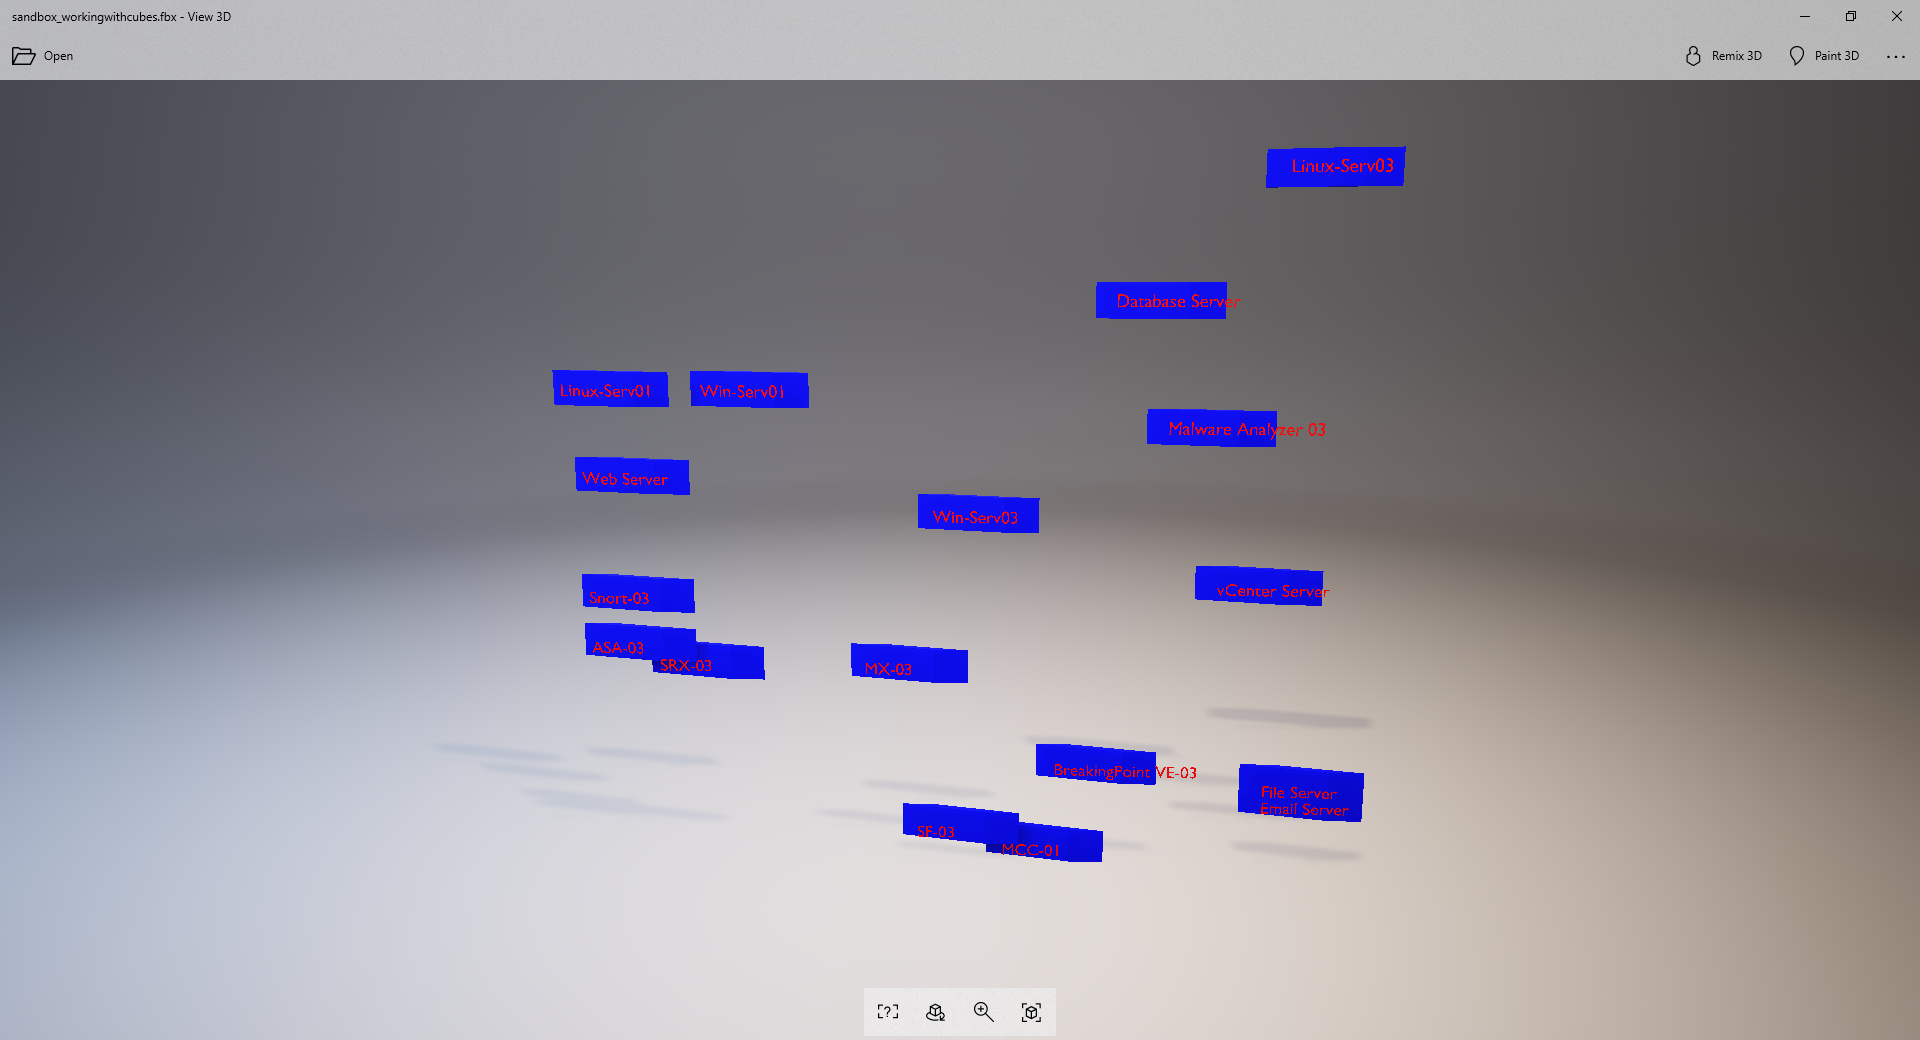
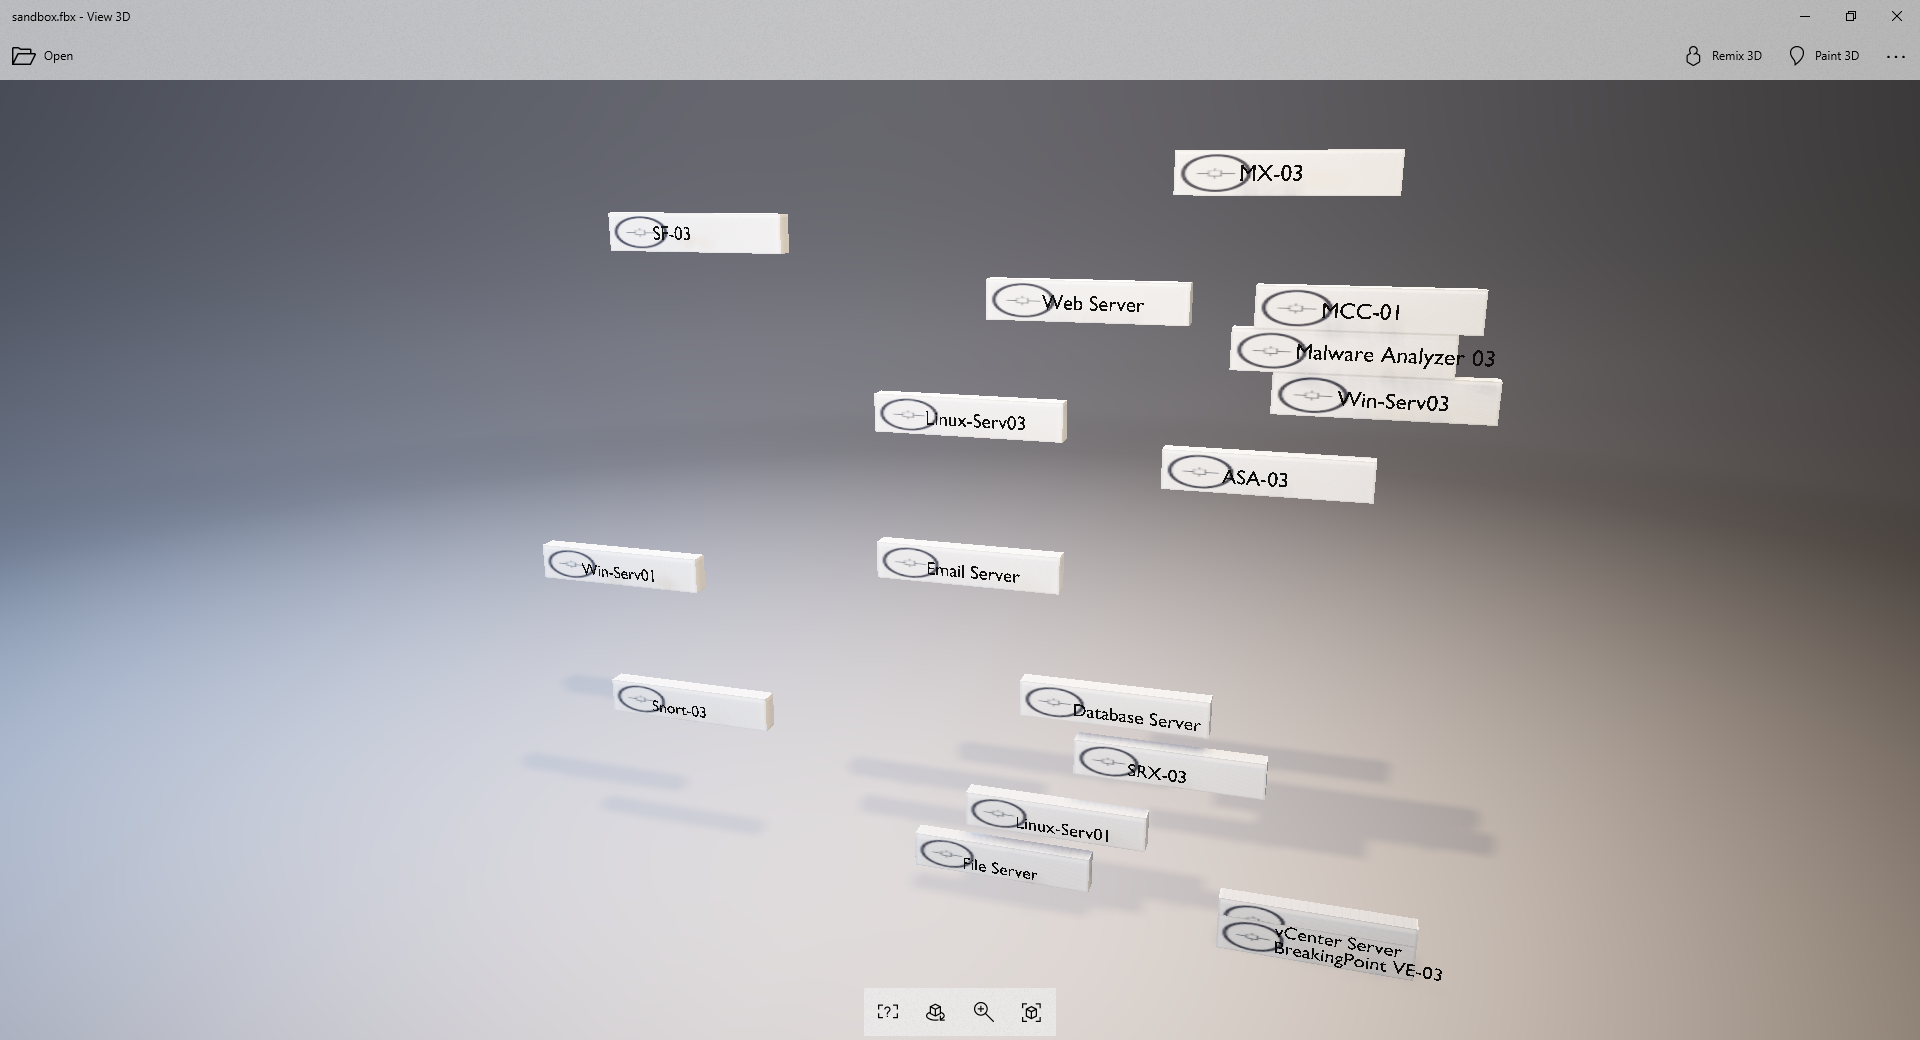
added textures

diff --git a/sandbox3d.py b/sandbox3d.py
@@ -5,6 +5,21 @@ from requests.packages.urllib3.exceptions import InsecureRequestWarning
 import json
 from math import pi
 from random import randint
+import os
+
+####
+# Parameters
+####
+# Credentials for CloudShell
+QSHost = "https://server.com:82"
+QSUn = "username"
+QSPw = "password"
+QSDom = "Global"
+SBID = "901b392d-3587-4e9d-bfaa-437b835145ac"
+# Where files are and to be stored
+WorkDir = "C:/temp"
+ExportFile = WorkDir + "/sandbox.fbx"
+ResourceTexturePath = WorkDir + "/resourcerect.png"
 
 #### 
 # CloudShell Stuff
@@ -22,13 +37,6 @@ def authRest(host, un, pw, dom):
         print ("Your authentication credentials to the server were bad")
         exit(1)
     return token
-
-# Credentials for CloudShell
-QSHost = "https://server.com:82"
-QSUn = "username"
-QSPw = "password"
-QSDom = "Global"
-SBID = "901b392d-3587-4e9d-bfaa-437b835145ac"
 
 # Authenticate and log get devices in sandbox
 token = authRest(QSHost, QSUn, QSPw, QSDom)
@@ -55,6 +63,48 @@ def makeMaterial(name, diffuse, specular, alpha):
     mat.alpha = alpha
     mat.ambient = 1
     return mat
+
+def wrapTexture():
+    # from https://wiki.blender.org/index.php/Dev:Py/Scripts/Cookbook/Code_snippets/Materials_and_textures#Textures
+    # Load image file. Change here if the snippet folder is 
+    # not located in you home directory.
+    realpath = os.path.expanduser(ResourceTexturePath)
+    try:
+        img = bpy.data.images.load(realpath)
+    except:
+        raise NameError("Cannot load image %s" % realpath)
+ 
+    # Create image texture from image
+    cTex = bpy.data.textures.new('ColorTex', type = 'IMAGE')
+    cTex.image = img
+ 
+ 
+    # Create material
+    mat = bpy.data.materials.new('TexMat')
+ 
+    # Add texture slot for color texture
+    mtex = mat.texture_slots.add()
+    mtex.texture = cTex
+    mtex.texture_coords = 'UV'
+    mtex.use_map_color_diffuse = True 
+    mtex.use_map_color_emission = True 
+    mtex.emission_color_factor = 0.5
+    mtex.use_map_density = True 
+    mtex.mapping = 'FLAT' 
+ 
+    # Create new cube and give it UVs
+    bpy.ops.mesh.primitive_plane_add()
+    bpy.ops.object.mode_set(mode='EDIT')
+    bpy.ops.uv.smart_project()
+    bpy.ops.object.mode_set(mode='OBJECT')
+ 
+    # Add material to current object
+    ob = bpy.context.object
+    ob.dimensions.x = 10
+    me = ob.data
+    me.materials.append(mat)
+ 
+    return ob
     
 def addText(txt):
     # right now just pick random numbers as a POC
@@ -62,26 +112,23 @@ def addText(txt):
     x = randint(1,50) # top to b
     y = 0 # depth
     z = randint(10,50) # l to r
-    red = makeMaterial('Red', (1,0,0), (1,1,1), 1)
-    blue = makeMaterial('Blue', (0,0,1), (1,1,1), 1)
+    textColor = makeMaterial('TextColor', (0,0,0), (1,1,1), 1)
 
     # first add the text and place it
     bpy.ops.object.text_add()
     textObject = bpy.context.active_object # the object just addded to the scene becomes the active object of the context
     textObject.data.body = txt
-    textObject.data.materials.append(red)
+    textObject.data.materials.append(textColor)
     bpy.ops.object.origin_set(type="ORIGIN_GEOMETRY") # set the origin (center of rotation) of the shape to it's geometric center
     textObject.rotation_euler[0] = pi / 2 #rotation euler is an array-like, [x,y,z], so this is 90 deg x axis rotation in radians!
-    textObject.location += Vector((x,y-2,z))
+    textObject.location += Vector((x-2,y-2,z))
 
-    # put a blue block behind it
-    bpy.ops.mesh.primitive_plane_add()
-    planeObject = bpy.context.active_object
-    planeObject.data.materials.append(blue)
+    # put a block behind it
+    planeObject = wrapTexture()
     planeObject.location += Vector((x,y,z))
     bpy.ops.object.origin_set(type="ORIGIN_GEOMETRY") # set the origin (center of rotation) of the shape to it's geometric center
     bpy.ops.object.mode_set(mode='EDIT')
-    bpy.ops.mesh.extrude_region_move(TRANSFORM_OT_translate={"value":(5, 0, 1)})
+    bpy.ops.mesh.extrude_region_move(TRANSFORM_OT_translate={"value":(0, 0, 1)})
     bpy.ops.object.mode_set(mode='OBJECT')
     planeObject.rotation_euler[0] = pi / 2 #rotation euler is an array-like, [x,y,z], so this is 90 deg x axis rotation in radians!
 
@@ -99,4 +146,4 @@ for component in sbrobj["components"]:
 
 # save it out
 bpy.context.scene.update() 
-bpy.ops.export_scene.fbx(filepath="C:/temp/sandbox.fbx", object_types={'OTHER','MESH','ARMATURE'}, bake_anim_use_nla_strips=False, bake_anim_use_all_actions=False) # following recommendations from SketchFab
+bpy.ops.export_scene.fbx(filepath=ExportFile, object_types={'OTHER','MESH','ARMATURE'}, bake_anim_use_nla_strips=False, bake_anim_use_all_actions=False) # following recommendations from SketchFab
